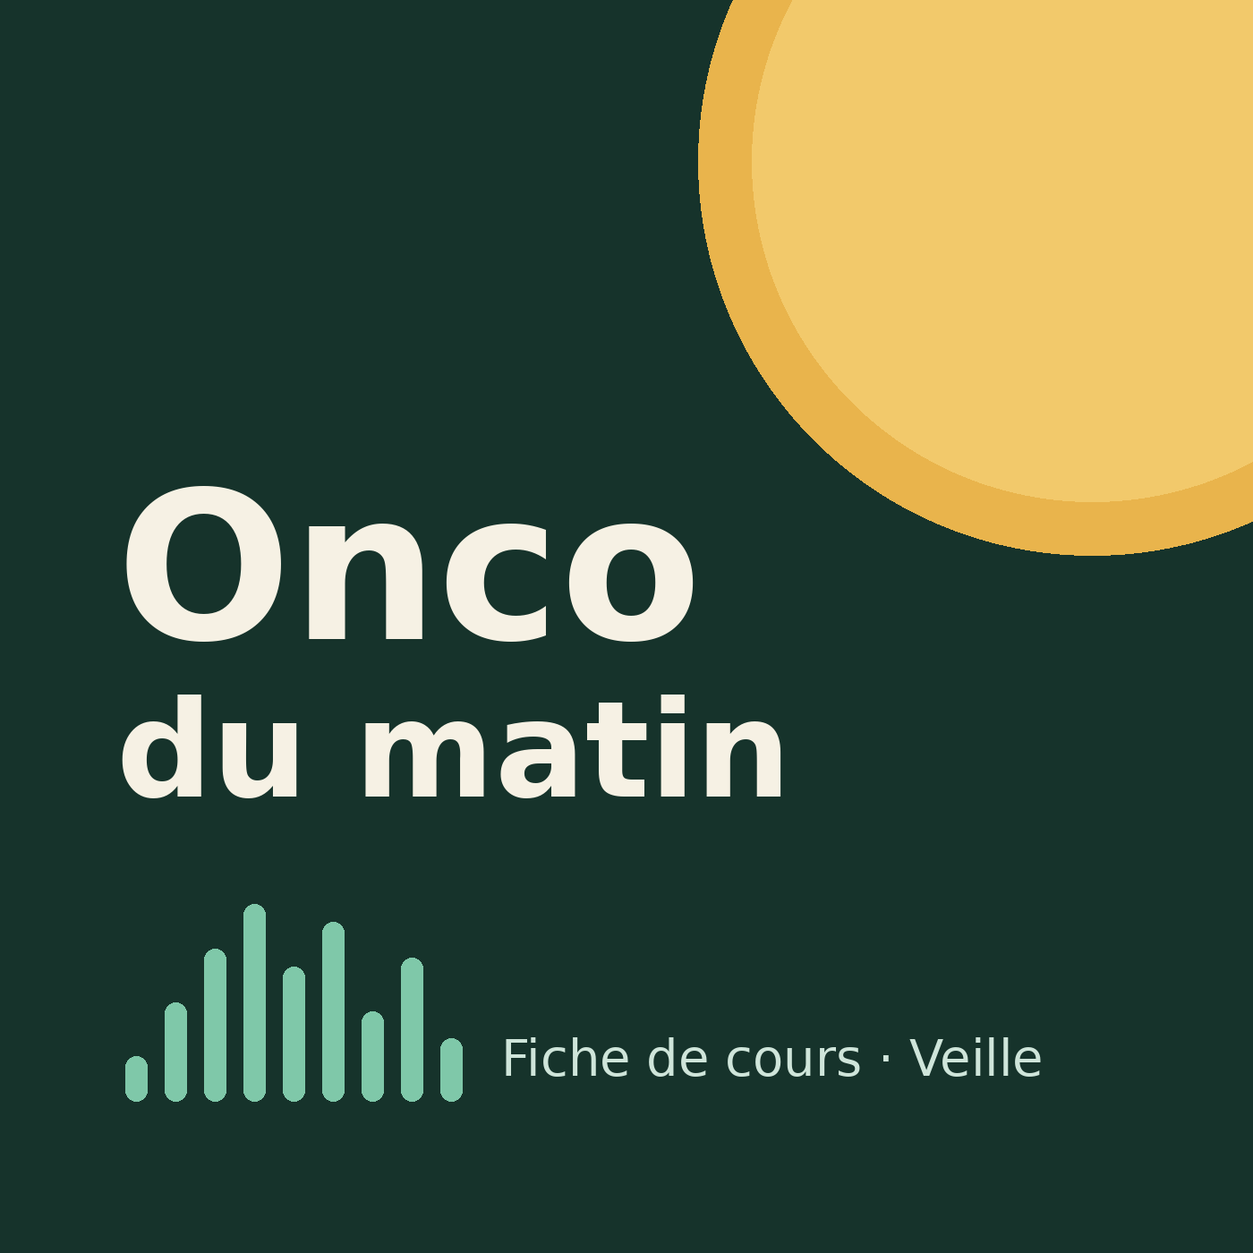
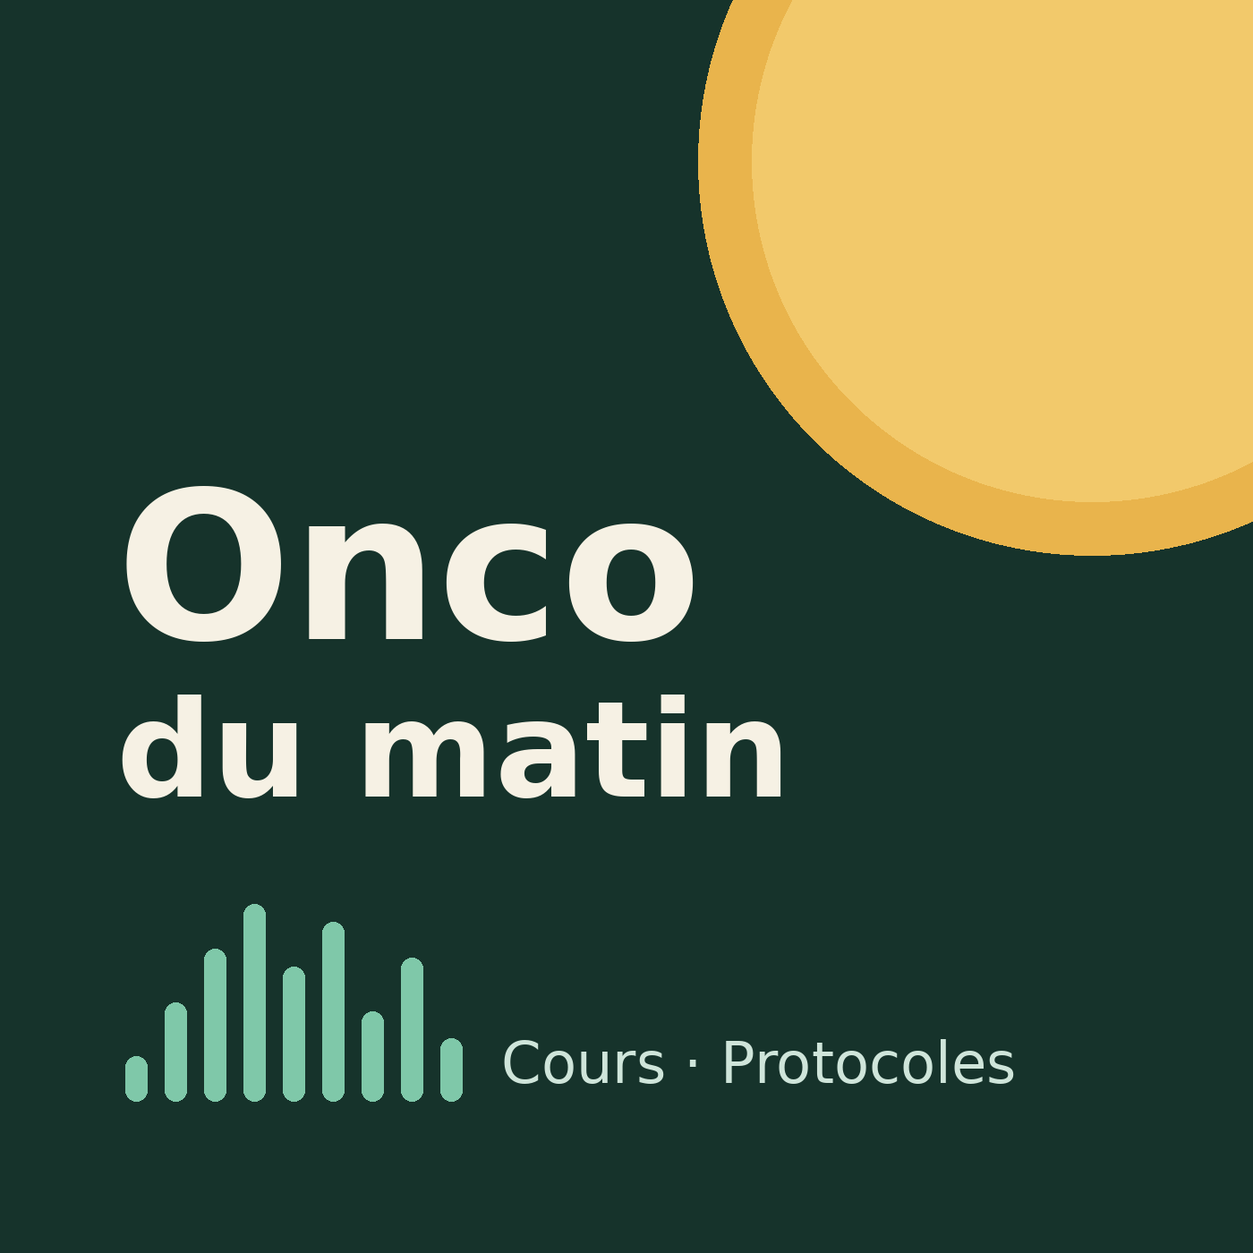
Fiches complètes en notes d'épisode, pochette Cours · Protocoles
Claude-Session: https://claude.ai/code/session_013hN86STFNLwEdFsnvX8FwB

Changed region(s): [[0.3993, 0.8293, 0.8293, 0.8907]]

diff --git a/scripts/build.py b/scripts/build.py
@@ -22,6 +22,7 @@ DB = ROOT / "episodes.json"
 RATE = 24000
 GAPS = {"pause": 3.5, "section": 1.6, "chunk": 0.35}
 MAX_CHARS = 3000
+COVER_V = __import__("hashlib").md5((ROOT / "cover.png").read_bytes()).hexdigest()[:8]
 
 
 # lit le front matter et le corps d'un épisode
@@ -156,18 +157,70 @@ def stage_audio(eps, out):
         ep["public"] = f"{SITE}/audio/{name}"
 
 
+CSS = """
+body{font-family:-apple-system,system-ui,sans-serif;max-width:720px;margin:0 auto;padding:24px 16px;background:#f6f4ef;color:#1d2a26;line-height:1.55}
+a{color:#1f6b52}header{display:flex;gap:16px;align-items:center}header img{width:96px;border-radius:12px}
+code{background:#e7e2d6;padding:2px 6px;border-radius:4px;word-break:break-all}
+ul.eps{list-style:none;padding:0}ul.eps>li{border-top:1px solid #d8d2c4;padding:16px 0}ul.eps h2{font-size:1.05em;margin:0 0 6px}
+.muted{color:#4a5752}audio{width:100%;margin-top:8px}
+h1{font-size:1.5em;line-height:1.25}h2{font-size:1.2em;margin-top:1.6em;border-bottom:2px solid #7fc8a9;padding-bottom:4px}h3{font-size:1.05em;margin-top:1.3em}
+.table{overflow-x:auto}table{border-collapse:collapse;width:100%;font-size:.92em;margin:12px 0}th,td{border:1px solid #d8d2c4;padding:6px 8px;text-align:left;vertical-align:top}th{background:#e7e2d6}
+.warn{background:#fbecc8;border-left:4px solid #e9b44c;padding:10px 12px;border-radius:4px;margin:16px 0}
+@media (prefers-color-scheme:dark){body{background:#131a18;color:#e8ece9}a{color:#7fc8a9}.muted{color:#a9b5b0}ul.eps>li,th,td{border-color:#2c3633}th,code{background:#25302d}.warn{background:#3a3320}}
+"""
+
+
+def page(title, body):
+    e = html.escape
+    return f"""<!doctype html>
+<html lang="fr"><head><meta charset="utf-8"><meta name="viewport" content="width=device-width,initial-scale=1">
+<title>{e(title)}</title><style>{CSS}</style></head><body>
+{body}
+</body></html>
+"""
+
+
+# rend chaque fiche écrite en page web
+def render_fiches(eps, out):
+    import markdown
+    (out / "fiches").mkdir(parents=True, exist_ok=True)
+    for ep in eps:
+        src = ROOT / "notes" / f"{ep['date']}.md"
+        if not src.exists():
+            continue
+        body = markdown.markdown(src.read_text(encoding="utf-8"), extensions=["tables", "sane_lists"])
+        body = re.sub(r"(<table>.*?</table>)", r'<div class="table">\1</div>', body, flags=re.S)
+        warn = '<p class="warn">Doses indicatives, à vérifier dans le thésaurus et les protocoles validés du centre avant toute prescription.</p>'
+        nav = f'<p class="muted"><a href="../">{html.escape(CONF["title"])}</a> · {html.escape(ep["date"])}</p>'
+        (out / "fiches" / f"{ep['date']}.html").write_text(page(ep["title"], nav + warn + body), encoding="utf-8")
+        ep["fiche"] = f"{SITE}/fiches/{ep['date']}.html"
+
+
 # génère le flux RSS et la page d'accueil
 def site(eps):
     out = ROOT / "site"
     out.mkdir(exist_ok=True)
     (out / "cover.png").write_bytes((ROOT / "cover.png").read_bytes())
     stage_audio(eps, out)
+    render_fiches(eps, out)
     e = html.escape
+
+    def notes(ep):
+        h = f"<p>{e(ep['summary'])}</p>"
+        if ep.get("fiche"):
+            h += f'<p><a href="{e(ep["fiche"])}">Lire la fiche complète : protocoles, doses et sources</a></p>'
+        return h
+
+    def desc(ep):
+        return ep["summary"] + (f" Fiche complète : {ep['fiche']}" if ep.get("fiche") else "")
+
     items = "".join(f"""
     <item>
       <title>{e(ep['title'])}</title>
-      <description>{e(ep['summary'])}</description>
-      <itunes:summary>{e(ep['summary'])}</itunes:summary>
+      <description>{e(desc(ep))}</description>
+      <content:encoded><![CDATA[{notes(ep)}]]></content:encoded>
+      <itunes:summary>{e(desc(ep))}</itunes:summary>
+      <link>{e(ep.get('fiche') or SITE + '/')}</link>
       <pubDate>{ep['pub']}</pubDate>
       <guid isPermaLink="false">onco-{ep['date']}-{ep.get('rev', 1)}</guid>
       <enclosure url="{e(ep['public'])}" length="{ep['bytes']}" type="audio/mpeg"/>
@@ -177,7 +230,7 @@ def site(eps):
     </item>""" for ep in eps)
     last = eps[0]["pub"] if eps else format_datetime(datetime.now(timezone.utc))
     (out / "feed.xml").write_text(f"""<?xml version="1.0" encoding="UTF-8"?>
-<rss version="2.0" xmlns:itunes="http://www.itunes.com/dtds/podcast-1.0.dtd" xmlns:atom="http://www.w3.org/2005/Atom">
+<rss version="2.0" xmlns:itunes="http://www.itunes.com/dtds/podcast-1.0.dtd" xmlns:content="http://purl.org/rss/1.0/modules/content/" xmlns:atom="http://www.w3.org/2005/Atom">
   <channel>
     <title>{e(CONF['title'])}</title>
     <link>{SITE}/</link>
@@ -186,8 +239,8 @@ def site(eps):
     <description>{e(CONF['description'])}</description>
     <itunes:summary>{e(CONF['description'])}</itunes:summary>
     <itunes:author>{e(CONF['author'])}</itunes:author>
-    <itunes:image href="{SITE}/cover.png"/>
-    <image><url>{SITE}/cover.png</url><title>{e(CONF['title'])}</title><link>{SITE}/</link></image>
+    <itunes:image href="{SITE}/cover.png?v={COVER_V}"/>
+    <image><url>{SITE}/cover.png?v={COVER_V}</url><title>{e(CONF['title'])}</title><link>{SITE}/</link></image>
     <itunes:category text="Health &amp; Fitness"><itunes:category text="Medicine"/></itunes:category>
     <itunes:explicit>false</itunes:explicit>
     <itunes:type>episodic</itunes:type>
@@ -197,26 +250,14 @@ def site(eps):
 </rss>
 """, encoding="utf-8")
     rows = "".join(
-        f"<li><h2>{e(ep['title'])}</h2><p>{e(ep['summary'])}</p>"
-        f"<audio controls preload=\"none\" src=\"{e(ep['public'])}\"></audio></li>" for ep in eps
+        f"<li><h2>{e(ep['title'])}</h2><p class=\"muted\">{e(ep['summary'])}</p>"
+        + (f"<p><a href=\"{e(ep['fiche'])}\">Fiche complète</a></p>" if ep.get("fiche") else "")
+        + f"<audio controls preload=\"none\" src=\"{e(ep['public'])}\"></audio></li>" for ep in eps
     )
-    (out / "index.html").write_text(f"""<!doctype html>
-<html lang="fr"><head><meta charset="utf-8"><meta name="viewport" content="width=device-width,initial-scale=1">
-<title>{e(CONF['title'])}</title>
-<link rel="alternate" type="application/rss+xml" href="feed.xml">
-<style>
-body{{font-family:-apple-system,system-ui,sans-serif;max-width:640px;margin:0 auto;padding:24px 16px;background:#f6f4ef;color:#1d2a26}}
-header{{display:flex;gap:16px;align-items:center}}img{{width:96px;border-radius:12px}}
-code{{background:#e7e2d6;padding:2px 6px;border-radius:4px;word-break:break-all}}
-ul{{list-style:none;padding:0}}li{{border-top:1px solid #d8d2c4;padding:16px 0}}h2{{font-size:1.05em;margin:0 0 6px}}
-p{{margin:0 0 10px;color:#4a5752}}audio{{width:100%}}
-@media (prefers-color-scheme:dark){{body{{background:#131a18;color:#e8ece9}}p{{color:#a9b5b0}}li{{border-color:#2c3633}}code{{background:#25302d}}}}
-</style></head><body>
-<header><img src="cover.png" alt=""><div><h1>{e(CONF['title'])}</h1><p>{e(CONF['description'])}</p></div></header>
-<p>Flux à ajouter dans l'app Podcasts : <code>{SITE}/feed.xml</code></p>
-<ul>{rows}</ul>
-</body></html>
-""", encoding="utf-8")
+    head = (f'<header><img src="cover.png" alt=""><div><h1>{e(CONF["title"])}</h1>'
+            f'<p class="muted">{e(CONF["description"])}</p></div></header>'
+            f'<p>Flux à ajouter dans l\'app Podcasts : <code>{SITE}/feed.xml</code></p>')
+    (out / "index.html").write_text(page(CONF["title"], head + f'<ul class="eps">{rows}</ul>'), encoding="utf-8")
 
 
 # supprime les épisodes au-delà de la limite

diff --git a/notes/2026-10-16.md b/notes/2026-10-16.md
@@ -1,0 +1,139 @@
+# Point de cours : cancer de la prostate localisé et récidive biologique
+
+Fiche 19 sur 30
+
+## Le principe organisateur
+
+Une fois diagnostiqué, le cancer de la prostate localisé est une maladie lente. Le risque de mourir du cancer à 15 ans est faible, quel que soit le traitement. On ne cherche donc pas à guérir à tout prix : on adapte l'intensité du traitement à deux choses. La première est le risque de la maladie : grade ISUP, PSA, stade clinique et IRM, et pour le haut risque, bilan d'extension idéalement par TEP au PSMA. La seconde est l'espérance de vie du patient. Le raisonnement suit toujours le même ordre :
+
+1. On classe le risque : faible, intermédiaire favorable, intermédiaire défavorable, haut risque, puis très haut risque ou localement avancé.
+2. On décide si un traitement est justifié : surveillance active contre traitement local.
+3. On choisit le traitement local : chirurgie ou radiothérapie.
+4. On décide de ce qu'on ajoute en systémique. L'hormonothérapie, avec sa durée, est liée à la radiothérapie. On y ajoute l'abiratérone quand le risque est très élevé.
+
+Après traitement local, tout repose sur la surveillance du PSA. On choisit le moment d'un rattrapage précoce plutôt qu'un traitement adjuvant systématique. On localise la récidive pour savoir si elle peut encore être traitée localement. Si elle ne peut plus l'être et que la cinétique du PSA est agressive, on intensifie le traitement systémique.
+
+## La stratégie selon la situation
+
+**Faible risque** (ISUP 1, PSA inférieur à 10, T1 ou T2a). La surveillance active est le standard : PSA, IRM et biopsies de contrôle selon un protocole défini. On passe à un traitement curatif si le grade augmente ou si l'IRM progresse, pas sur le seul souhait d'agir.
+
+**Risque intermédiaire favorable.** On propose un traitement local seul : prostatectomie ou radiothérapie sans hormonothérapie. Pour certains patients bien choisis, la surveillance active peut se discuter. La radiothérapie hypofractionnée modérée, en 20 séances, est devenue la norme. La stéréotaxie en 5 séances est validée par PACE-B. Pour la décision partagée, le patient doit savoir que les toxicités diffèrent d'un traitement à l'autre.
+
+**Risque intermédiaire défavorable.** Soit une radiothérapie avec une hormonothérapie courte d'environ 6 mois, soit une prostatectomie avec curage.
+
+**Haut risque.** Soit une radiothérapie avec hormonothérapie longue, de 18 mois à 3 ans, en irradiant les ganglions pelviens selon le cas. Soit une prostatectomie avec curage étendu, dans une approche multimodale. Le point de bifurcation, ce sont les critères de STAMPEDE : atteinte ganglionnaire, ou au moins deux critères parmi stade T3 ou T4, score de Gleason de 8 à 10, et PSA d'au moins 40. Si ces critères sont remplis, on ajoute l'abiratérone et la prednisolone pendant 2 ans à la radiothérapie et à 3 ans de suppression androgénique. C'est un standard selon l'ESMO. Pour son remboursement en France dans cette indication, je n'ai pas retrouvé de source dans ce run. Vérifie avant de prescrire.
+
+**Après prostatectomie.** La récidive biologique se définit par un PSA d'au moins 0,2, confirmé. Même en cas de facteurs péjoratifs, comme une tumeur pT3 ou des marges positives, on ne fait pas de radiothérapie adjuvante systématique. On surveille le PSA et on fait une radiothérapie de rattrapage précoce, dès que le PSA remonte, idéalement avant 0,5. On l'associe à une hormonothérapie courte de 6 mois (GETUG-AFU 16). Une hormonothérapie plus longue se discute si le PSA est plus élevé ou la maladie plus agressive.
+
+**Après radiothérapie.** La récidive biologique suit la définition de Phoenix : nadir plus 2. On cherche à localiser la récidive par TEP au PSMA et par IRM, avec une biopsie, avant de discuter un rattrapage local : prostatectomie de rattrapage, curiethérapie ou ultrasons focalisés.
+
+**Récidive biologique non accessible à un traitement local.** Si le temps de doublement du PSA dépasse 12 mois, on surveille, et l'hormonothérapie intermittente se discute. Si la récidive est à haut risque, définie dans EMBARK par un temps de doublement de 9 mois ou moins avec une imagerie conventionnelle négative, on propose l'enzalutamide associé à un agoniste de la LH-RH.
+
+En pratique, la TEP au PSMA détecte souvent des lésions qu'EMBARK n'avait pas vues, puisqu'il était basé sur l'imagerie conventionnelle. C'est une zone grise : faut-il traiter ces lésions localement, ou appliquer EMBARK ? À discuter en RCP.
+
+## Les chiffres pivots
+
+1. **ProtecT, NEJM 2023.** 1643 patients dépistés par le PSA, suivi médian de 15 ans. Mortalité par cancer de la prostate :
+   - 3,1 pour cent en surveillance active ;
+   - 2,2 pour cent après prostatectomie ;
+   - 2,9 pour cent après radiothérapie.
+
+   La différence n'est pas significative (p égal à 0,53). Mais les métastases sont deux fois plus fréquentes sous surveillance active : 9,4 pour cent, contre 4,7 et 5,0 pour cent. La mortalité toutes causes est d'environ 21 à 23 pour cent dans les trois bras.
+
+2. **STAMPEDE, abiratérone dans le haut risque non métastatique, méta-analyse de deux essais, Lancet 2022.** Survie sans métastase à 6 ans de 82 pour cent contre 69 pour cent. HR 0,53, IC 95 pour cent de 0,44 à 0,64, p inférieur à 0,0001. Survie globale : HR 0,60, IC 95 pour cent de 0,48 à 0,73. Ajouter l'enzalutamide à l'abiratérone n'apporte rien de plus (HR d'interaction 1,02).
+
+3. **RADICALS-RT.** Survie sans progression biochimique à 5 ans de 85 pour cent avec la radiothérapie adjuvante, contre 88 pour cent avec la surveillance suivie d'un rattrapage. La méta-analyse ARTISTIC, qui regroupe RADICALS-RT, GETUG-AFU 17 et RAVES, ne retrouve aucun bénéfice de l'adjuvant sur la survie sans événement. La différence absolue estimée est d'environ 1 pour cent à 5 ans.
+
+4. **GETUG-AFU 16, Lancet Oncology 2016.** Radiothérapie de rattrapage avec ou sans 6 mois de goséréline. Survie sans progression à 5 ans de 80 pour cent contre 62 pour cent. HR 0,50, IC 95 pour cent de 0,38 à 0,66, p inférieur à 0,0001. Je n'ai pas pu vérifier dans ce run les chiffres de la mise à jour à 10 ans.
+
+5. **EMBARK, survie sans métastase, NEJM 2023.** Récidive biologique avec un temps de doublement du PSA de 9 mois ou moins. Survie sans métastase à 5 ans :
+   - 87,3 pour cent avec l'enzalutamide associé au leuproréline ;
+   - 80,0 pour cent avec l'enzalutamide seul ;
+   - 71,4 pour cent avec la leuproréline seule.
+
+   HR de l'association : 0,42, IC 95 pour cent de 0,30 à 0,61. HR de l'enzalutamide seul : 0,63.
+
+6. **EMBARK, survie globale, 2025.** Survie globale à 8 ans de 78,9 pour cent avec l'association, contre 69,5 pour cent. HR 0,60, IC 95 pour cent de 0,44 à 0,80, p égal à 0,0006. C'est un gain absolu d'environ 9 points.
+
+7. **PACE-B, NEJM 2024.** Stéréotaxie, 36,25 grays en 5 séances, contre radiothérapie conventionnelle ou hypofractionnée modérée, sans hormonothérapie, pour des tumeurs de risque faible ou intermédiaire. Absence d'échec biochimique ou clinique à 5 ans de 95,8 pour cent contre 94,6 pour cent : la non-infériorité est démontrée. En contrepartie, la toxicité urinaire tardive de grade 2 ou plus est plus fréquente : 26,9 pour cent contre 18,3 pour cent.
+
+## Nouveautés
+
+**PROTEUS**, présenté à l'ASCO 2026 et publié dans le NEJM. Il teste 6 mois d'apalutamide avant et 6 mois après la prostatectomie, en plus de la suppression androgénique, chez 2109 patients à haut risque. Taux de réponse pathologique complète ou de maladie résiduelle minime : 8,9 pour cent contre 1,0 pour cent. La survie sans métastase évaluée en relecture centralisée est améliorée : HR 0,80, IC 95 pour cent de 0,67 à 0,96, p égal à 0,02. En revanche, le gain n'est pas significatif sur l'imagerie conventionnelle seule (HR 0,84). Dans la source consultée, la survie globale n'était pas encore rapportée. C'est donc un signal positif mais modeste. L'apalutamide n'a pas d'AMM en France dans cette indication.
+
+**EMBARK** a transformé une option discutée en standard, grâce au bénéfice en survie globale. L'enzalutamide dispose d'une AMM européenne dans la récidive biologique à haut risque. Je n'ai pas vérifié dans ce run le niveau de remboursement en France.
+
+**La TEP au PSMA** fait migrer une partie des patients vers le stade oligométastatique. C'est en train de redéfinir la récidive biologique dite « non métastatique ».
+
+## Toxicités et pièges
+
+**Prostatectomie.** Incontinence urinaire et dysfonction érectile.
+
+**Radiothérapie.** Toxicité urinaire et rectale tardive, plus de toxicité urinaire avec la stéréotaxie selon PACE-B. Risque de second cancer pelvien.
+
+**Suppression androgénique.** Bouffées de chaleur, syndrome métabolique, risque cardiovasculaire, ostéoporose, sarcopénie, troubles cognitifs et de l'humeur. Il faut une prévention osseuse et un bilan cardiovasculaire de base.
+
+**Abiratérone.** Hypertension, hypokaliémie, rétention hydrique et hépatotoxicité, d'où l'association à la prednisolone et une surveillance biologique rapprochée.
+
+**Enzalutamide et apalutamide.** Asthénie, chutes, interactions médicamenteuses par induction enzymatique. Éruption cutanée et hypothyroïdie avec l'apalutamide.
+
+**Pièges classiques :**
+
+- Interpréter un PSA sous inhibiteur de la 5-alpha-réductase sans le corriger : il faut doubler la valeur.
+- Confondre les définitions de la récidive biologique après chirurgie (PSA d'au moins 0,2) et après radiothérapie (nadir plus 2).
+- Faire une radiothérapie adjuvante systématique au lieu d'un rattrapage précoce.
+- Attendre un PSA élevé avant le rattrapage.
+- Appliquer EMBARK sans avoir discuté un traitement local de rattrapage.
+- Oublier la recherche d'une mutation constitutionnelle, BRCA2 en particulier, dans les formes à haut risque ou en cas d'antécédents familiaux.
+
+## Les trois questions qu'on te posera
+
+**Question 1.** Homme de 68 ans, ISUP 4, PSA à 45, tumeur cT3b, bilan ganglionnaire et métastatique négatif, radiothérapie prévue. Que proposes-tu ?
+
+Réponse : radiothérapie prostatique, et pelvienne selon le cas, avec 3 ans de suppression androgénique et 2 ans d'abiratérone et de prednisolone. Il remplit trois critères de STAMPEDE : T3, Gleason 8, PSA d'au moins 40. Le gain attendu est de 13 points de survie sans métastase à 6 ans.
+
+**Question 2.** Après prostatectomie, tumeur pT3a avec marges positives et PSA indétectable. Faut-il une radiothérapie adjuvante ?
+
+Réponse : non. On surveille le PSA et on fait une radiothérapie de rattrapage précoce si le PSA remonte, avec 6 mois d'hormonothérapie. RADICALS-RT et ARTISTIC ne montrent pas de bénéfice à l'adjuvant, avec plus de toxicité.
+
+**Question 3.** Récidive biologique après prostatectomie puis radiothérapie de rattrapage, temps de doublement du PSA de 6 mois, imagerie conventionnelle négative. Quelle est ton option ?
+
+Réponse : enzalutamide associé à un agoniste de la LH-RH, selon EMBARK. Le bénéfice en survie globale est de 9 points à 8 ans, HR 0,60. Une TEP au PSMA préalable peut cependant montrer une maladie oligométastatique accessible à un traitement local : à discuter en RCP.
+
+---
+
+# Veille des dernières 24 heures
+
+La fenêtre est pauvre : peu d'actualité nouvelle à fort impact en 24 heures, à une semaine de l'ESMO 2026, qui se tient à Madrid du 23 au 27 octobre. Je me limite à deux points.
+
+**1. FDA : extension d'Anktiva aux tumeurs papillaires résistantes au BCG.** Le 14 octobre, la FDA a étendu l'autorisation du nogapendekin alfa inbakicept, un agoniste de l'interleukine 15, associé au BCG. L'indication couvre désormais les tumeurs de vessie n'infiltrant pas le muscle, de haut grade, papillaires seules et ne répondant plus au BCG. La décision repose sur la cohorte B de l'essai à un seul bras QUILT-3.032, avec 72 patients évaluables. La survie sans maladie est de 55,4 pour cent à 12 mois et de 48,3 pour cent à 24 mois, avec une médiane de 19,3 mois. Le niveau de preuve est limité : il n'y a pas de bras contrôle. Il n'y a pas d'impact en France à court terme, le produit n'étant pas disponible en Europe dans cette indication à ma connaissance. Source : [OncLive](https://www.onclive.com/view/fda-approves-nogapendekin-alfa-inbakicept-plus-bcg-for-high-grade-papillary-only-bcg-unresponsive-nmibc)
+
+**2. ESMO 2026 : annonces de phase 3 avant le congrès.** Ce sont des communiqués de l'industrie, du 13 octobre, juste en limite de fenêtre, sans aucun chiffre publié. Plusieurs essais sont annoncés positifs pour le symposium présidentiel :
+
+- INTerpath-001 : vaccin ARN messager personnalisé associé au pembrolizumab en adjuvant du mélanome, positif sur la survie sans récidive et la survie sans métastase à distance ;
+- TroFuse-005 : sacituzumab tirumotecan dans l'endomètre en rechute, positif sur la survie globale et la survie sans progression ;
+- SAFFRON : savolitinib associé à l'osimertinib dans les cancers du poumon EGFR avec altération de MET.
+
+Il faut attendre les données complètes avant d'en tirer une conclusion. Sources : [Merck](https://www.merck.com/news/merck-showcases-first-time-pivotal-phase-3-results-from-oncology-pipeline-and-continued-innovative-potential-of-existing-portfolio-at-esmo-2026/), [CURE](https://www.curetoday.com/view/esmo-2026-preview-5-late-breaking-trials-patients-should-watch)
+
+---
+
+# Sources
+
+**Fiche :**
+
+- [ProtecT, résultats à 15 ans, ASCO Post](https://ascopost.com/news/march-2023/active-monitoring-surgery-or-radiotherapy-for-localized-prostate-cancer-15-year-outcomes-in-the-uk-protect-trial/)
+- [STAMPEDE, abiratérone dans le haut risque non métastatique, INCa Nota Bene](https://www.cancer.fr/professionnels-de-sante/veille/nota-bene-cancer/bulletin-n-510/abiraterone-acetate-and-prednisolone-with-or-without-enzalutamide-for-high-risk-non-metastatic-prostate-cancer-a-meta-analysis-of-primary-results)
+- [RADICALS-RT et ARTISTIC, ASCO Post](https://ascopost.com/issues/october-25-2019/studies-suggest-early-salvage-radiotherapy-may-be-preferable-to-adjuvant-radiotherapy-after-prostatectomy/)
+- [GETUG-AFU 16, INCa Nota Bene](https://www.cancer.fr/professionnels-de-sante/veille/nota-bene-cancer/bulletin-n-308/tra302/salvage-radiotherapy-with-or-without-short-term-hormone-therapy-for-rising-prostate-specific-antigen-concentration-after-radical-prostatectomy-get)
+- [EMBARK, survie sans métastase, Targeted Oncology](https://www.targetedonc.com/view/enzalutamide-leuprolide-superior-to-leuprolide-for-mfs-in-nmcspc)
+- [EMBARK, survie globale, OncLive](https://www.onclive.com/view/enzalutamide-plus-leuprolide-yields-os-benefit-in-high-risk-biochemically-recurrent-prostate-cancer-)
+- [PACE-B, ASCO Post](https://ascopost.com/news/october-2024/sbrt-vs-conventional-radiotherapy-for-localized-prostate-cancer/)
+- [PROTEUS, OncLive](https://www.onclive.com/view/proteus-data-support-perioperative-apalutamide-plus-adt-as-new-soc-in-high-risk-localized-prostate-cancer)
+
+**Veille :**
+
+- [Anktiva, extension aux tumeurs papillaires, OncLive](https://www.onclive.com/view/fda-approves-nogapendekin-alfa-inbakicept-plus-bcg-for-high-grade-papillary-only-bcg-unresponsive-nmibc)
+- [Merck, programme ESMO 2026](https://www.merck.com/news/merck-showcases-first-time-pivotal-phase-3-results-from-oncology-pipeline-and-continued-innovative-potential-of-existing-portfolio-at-esmo-2026/)
+- [CURE, ESMO 2026 Preview](https://www.curetoday.com/view/esmo-2026-preview-5-late-breaking-trials-patients-should-watch)
+- [ESMO, flux d'actualités](https://www.esmo.org/rss/feed/esmo-news)

diff --git a/README.md b/README.md
@@ -2,8 +2,9 @@
 
 Podcast quotidien privé : fiche de cours d'oncologie et veille, généré chaque matin de semaine.
 
-- La tâche planifiée Claude écrit le script oral dans `episodes/AAAA-MM-JJ.md` et le pousse sur `main`.
+- La tâche planifiée Claude écrit la fiche complète dans `notes/AAAA-MM-JJ.md` et le script oral dans `episodes/AAAA-MM-JJ.md`, puis les pousse sur `main`.
 - L'Action `Episode` le transforme en MP3 (OpenAI `gpt-4o-mini-tts`), le publie en release et met à jour le flux.
+- Chaque fiche est publiée en page web, liée dans les notes de l'épisode.
 - Flux : https://stalh.github.io/onco-du-matin/feed.xml
 
 Format d'un épisode :
